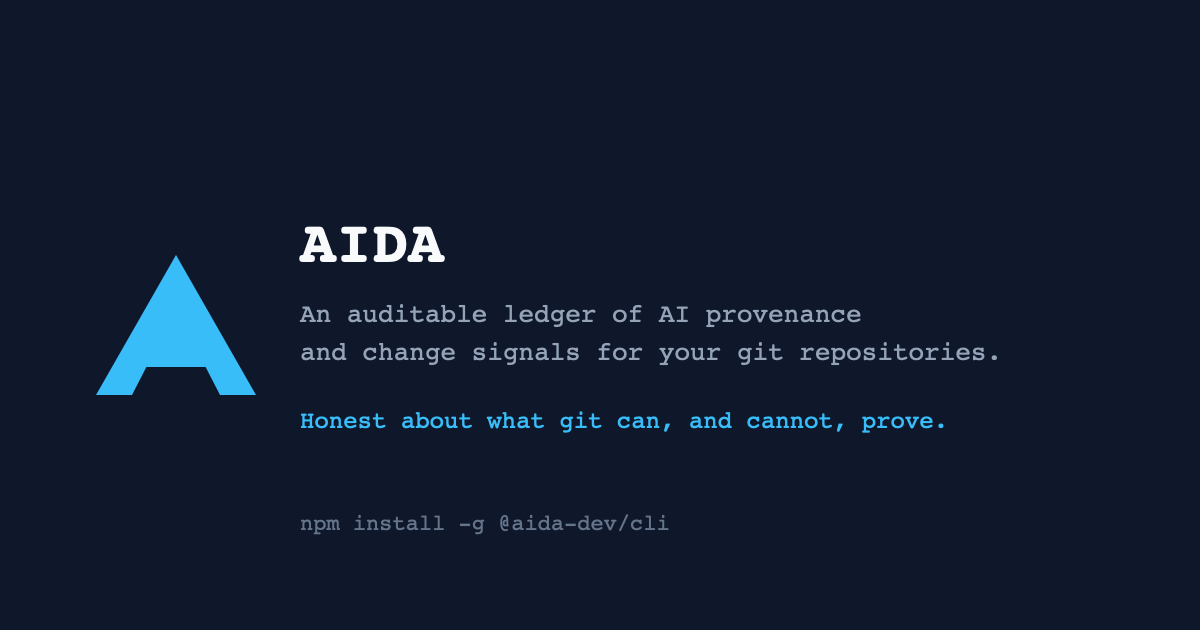
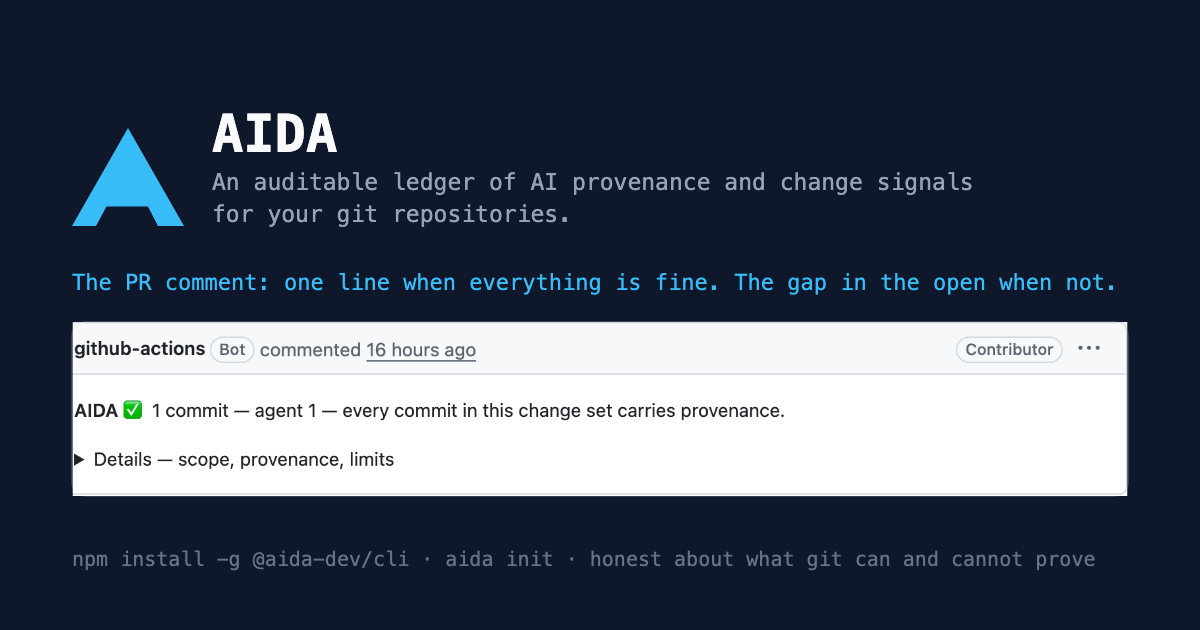
docs: show the real PR comment — screenshot in README, landing and social card; landing demo uses 1.1 output
The launch surfaces described the product; none showed it. This puts the
actual artifact in front of the reader:

- `docs/pr-comment.png`: element screenshot of the live AIDA comment on
  PR #92 (github-actions bot, fold closed — what a reviewer actually sees).
- README `CI/CD Integration`: composite action first
  (`uses: ceccode/AIDA-Metrics@v1`), then the screenshot, then the manual
  steps for anyone who wants control. Requires the `v1` tag to exist.
- Landing: the demo terminal replayed a pre-1.0 vocabulary
  (`Attribution: ai 71 · human 0 …`, `aida collect --since 30d`). It now
  shows real `aida init` / `aida doctor` / `aida --since 90d` output from
  this repository, including the trend line honestly saying "no
  comparison yet". The CI section uses the action and shows the comment.
- `og-image`: the provisional text card is replaced by one built around
  the screenshot, rendered at exactly 1200×630 from the SVG source.
- `sitemap.xml` lastmod bumped.

Nothing here changes what the tool computes.

AI-Mode: agent

diff --git a/docs/index.html b/docs/index.html
@@ -137,31 +137,47 @@
                     </div>
                     <div class="terminal-body">
                         <div class="terminal-line">
-                            <span class="prompt">$</span> aida collect --since 30d
+                            <span class="prompt">$</span> aida init
                         </div>
                         <div class="terminal-line output">
-                            ✓ Collected 247 commits
+                            + .aida.json &nbsp; &nbsp; &nbsp; &nbsp; &nbsp; &nbsp; &nbsp; &nbsp; &nbsp;created — no prior
                         </div>
                         <div class="terminal-line output">
-                            ✓ Attribution: ai 71 · human 0 · automated 0 · unknown 176
+                            + commit hook &nbsp; &nbsp; &nbsp; &nbsp; &nbsp; &nbsp; &nbsp; &nbsp;installed
+                        </div>
+                        <div class="terminal-line output">
+                            + package.json prepare &nbsp; &nbsp; &nbsp; &nbsp;created — aida install-hooks --if-git
+                        </div>
+                        <div class="terminal-line output">
+                            + .github/workflows/aida.yml &nbsp;created — PR comment, minimal permissions
                         </div>
                         <div class="terminal-line">
-                            <span class="prompt">$</span> aida analyze
+                            <span class="prompt">$</span> aida doctor
                         </div>
                         <div class="terminal-line output">
-                            ✓ Attribution coverage: 28.7% — cohort overlays are low-confidence
+                            ✓ clone depth &nbsp; &nbsp; &nbsp; &nbsp; &nbsp; &nbsp; &nbsp; &nbsp; full history
                         </div>
                         <div class="terminal-line output">
-                            ✓ Repo rapid retouch (30d): 18.2% (8/44 eligible)
+                            ✓ commit hook (this clone) &nbsp;AI-Mode trailer will be stamped
+                        </div>
+                        <div class="terminal-line output">
+                            Ready: every check passed.
                         </div>
                         <div class="terminal-line">
-                            <span class="prompt">$</span> aida report
+                            <span class="prompt">$</span> aida --since 90d
                         </div>
                         <div class="terminal-line output">
-                            ✓ Reports generated in ./aida-output/
+                            Collected 77 commits · coverage 100.0% (agent 52, automated 25, unknown 0)
+                        </div>
+                        <div class="terminal-line output">
+                            Trend: fewer than two mature periods (30d window) — no comparison yet
+                        </div>
+                        <div class="terminal-line output">
+                            Reports written to ./aida-output/
                         </div>
                     </div>
                 </div>
+                <p class="demo-caption">Real output from this project's own repository. A young window says "no comparison yet" instead of inventing one.</p>
             </div>
         </section>
 
@@ -252,7 +268,7 @@
         <section id="ci" class="ci-integration">
             <div class="container">
                 <h2>CI/CD Integration</h2>
-                <p class="section-subtitle">Add the documented workflow to create a scoped report on every pull request. PR comments require explicit token permissions.</p>
+                <p class="section-subtitle">One step in your workflow. The action runs <code>aida doctor</code> first, so a shallow checkout is refused before it can produce a confidently wrong report.</p>
                 <div class="ci-example">
                     <div class="terminal">
                         <div class="terminal-header">
@@ -277,13 +293,16 @@
                             <div class="terminal-line">&nbsp; &nbsp; &nbsp; - <span class="yaml-key">uses:</span> actions/checkout@v5</div>
                             <div class="terminal-line">&nbsp; &nbsp; &nbsp; &nbsp; <span class="yaml-key">with:</span></div>
                             <div class="terminal-line">&nbsp; &nbsp; &nbsp; &nbsp; &nbsp; <span class="yaml-key">fetch-depth:</span> 0</div>
-                            <div class="terminal-line">&nbsp; &nbsp; &nbsp; - <span class="yaml-key">run:</span> npm i -g @aida-dev/cli</div>
-                            <div class="terminal-line">&nbsp; &nbsp; &nbsp; - <span class="yaml-key">run:</span> aida collect --pr && aida analyze && aida report && aida comment</div>
-                            <div class="terminal-line">&nbsp; &nbsp; &nbsp; &nbsp; <span class="yaml-key">env:</span></div>
-                            <div class="terminal-line">&nbsp; &nbsp; &nbsp; &nbsp; &nbsp; <span class="yaml-key">GITHUB_TOKEN:</span> ${{ secrets.GITHUB_TOKEN }}</div>
+                            <div class="terminal-line">&nbsp; &nbsp; &nbsp; - <span class="yaml-key">uses:</span> ceccode/AIDA-Metrics@v1</div>
+                            <div class="terminal-line">&nbsp; &nbsp; &nbsp; &nbsp; <span class="yaml-key">with:</span></div>
+                            <div class="terminal-line">&nbsp; &nbsp; &nbsp; &nbsp; &nbsp; <span class="yaml-key">comment:</span> true</div>
                         </div>
                     </div>
                 </div>
+                <figure class="pr-comment">
+                    <img src="pr-comment.png" alt="AIDA PR comment on GitHub: one verdict line, every commit in this change set carries provenance, with a collapsed Details fold" width="800" height="132" loading="lazy">
+                    <figcaption>What lands on the pull request when every commit carries provenance: one line, details folded. When commits lack provenance the line turns to ⚠ and names them, with the one-line repair.</figcaption>
+                </figure>
             </div>
         </section>
 

diff --git a/docs/style.css b/docs/style.css
@@ -627,3 +627,34 @@ body {
 .faq-list { max-width: 760px; margin: 0 auto; }
 .faq-list dt { font-weight: 600; margin-top: 1.75rem; }
 .faq-list dd { margin: 0.5rem 0 0; line-height: 1.65; opacity: 0.9; }
+
+/* PR comment figure + demo caption */
+.demo-caption {
+    max-width: 700px;
+    margin: 1.25rem auto 0;
+    text-align: center;
+    color: var(--text-muted);
+    font-size: 0.9rem;
+}
+
+.pr-comment {
+    max-width: 800px;
+    margin: 2.5rem auto 0;
+}
+
+.pr-comment img {
+    display: block;
+    width: 100%;
+    height: auto;
+    border: 1px solid var(--border);
+    border-radius: 0.75rem;
+    box-shadow: var(--shadow-xl);
+    background: #fff;
+}
+
+.pr-comment figcaption {
+    margin-top: 1rem;
+    text-align: center;
+    color: var(--text-muted);
+    font-size: 0.9rem;
+}

diff --git a/README.md b/README.md
@@ -670,7 +670,31 @@ The v3 contract binds artifacts to a labelled commit scope and head snapshot, ma
 
 ### GitHub Actions (with PR comments)
 
-The job that posts comments needs `contents: read` and `pull-requests: write`; organizations that default `GITHUB_TOKEN` to read-only must declare these permissions explicitly.
+The shortest path is the composite action. It runs `aida doctor` first, so a shallow checkout is refused before it can produce a confidently wrong report, and it posts the comment in its own step so the write token never meets PR-built code:
+
+```yaml
+permissions:
+  contents: read
+  pull-requests: write
+
+steps:
+  - uses: actions/checkout@v5
+    with:
+      fetch-depth: 0
+  - uses: ceccode/AIDA-Metrics@v1
+    with:
+      comment: true
+```
+
+This is what lands on the pull request when every commit carries provenance — one line, with scope, evidence and limits folded underneath:
+
+<p align="center">
+  <img src="docs/pr-comment.png" alt="AIDA PR comment: one verdict line, 'every commit in this change set carries provenance', with a collapsed Details fold" width="800">
+</p>
+
+When commits lack provenance the line turns to ⚠ with the count and coverage, followed by the commits themselves and the one-line repair. Nothing is repeated on every PR that does not need to be read on every PR.
+
+If you prefer to run the steps yourself, the job that posts comments needs `contents: read` and `pull-requests: write`; organizations that default `GITHUB_TOKEN` to read-only must declare these permissions explicitly.
 
 ```yaml
 - uses: actions/checkout@v5
